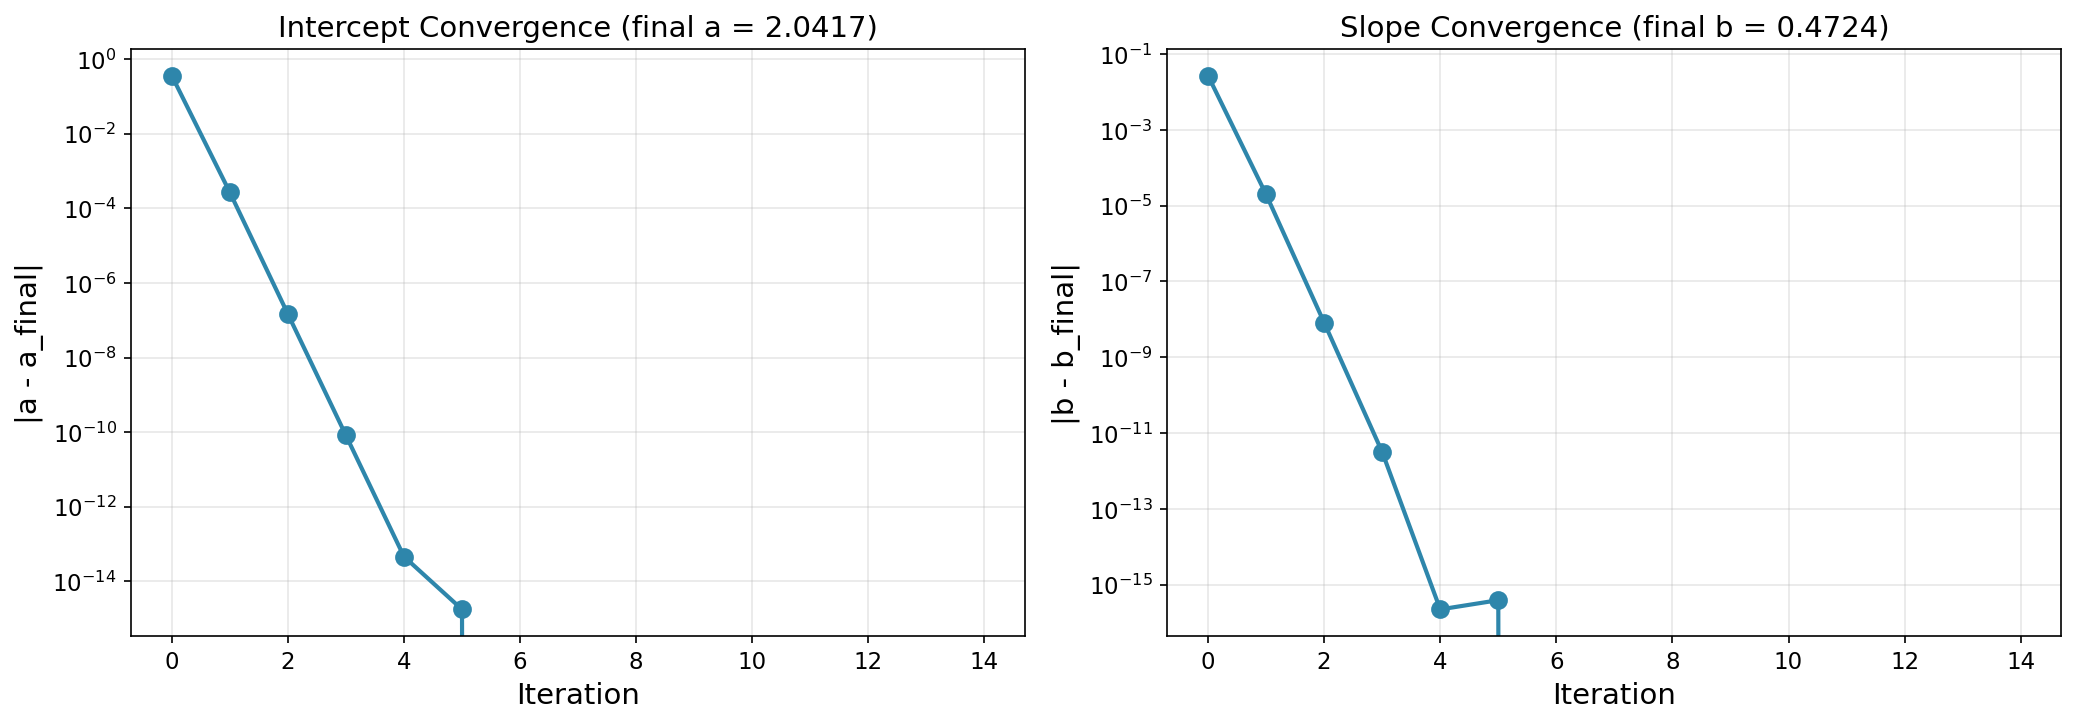
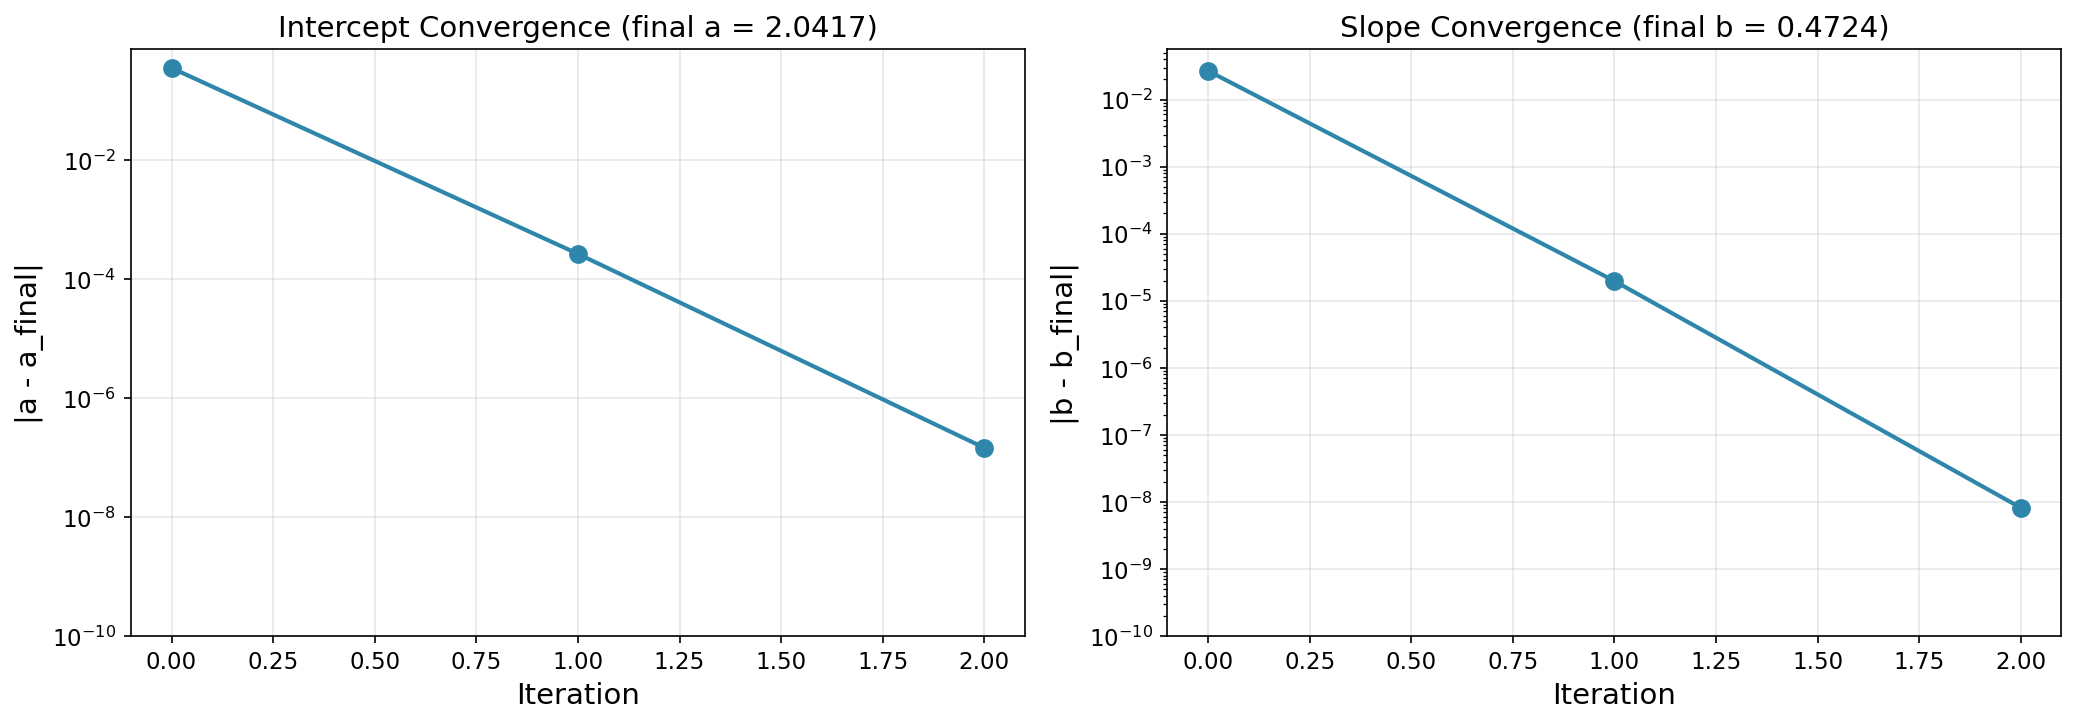
update to plots

diff --git a/demo.py b/demo.py
@@ -650,21 +650,32 @@ def demo_convergence():
     
     ax = axes[0]
     a_diff = np.abs(np.array(a_history) - a_final)
-    # Avoid log(0) by setting final point to a small value
-    a_diff[-1] = 1e-16
-    ax.semilogy(iterations[:-1], a_diff[:-1], 'o-', color='#2E86AB', lw=2, markersize=8)
+    # Find last iteration above 1e-10 threshold
+    a_valid = a_diff[:-1] >= 1e-10
+    if np.any(a_valid):
+        a_cutoff = np.where(a_valid)[0][-1] + 1
+    else:
+        a_cutoff = len(a_diff) - 1
+    ax.semilogy(iterations[:a_cutoff], a_diff[:a_cutoff], 'o-', color='#2E86AB', lw=2, markersize=8)
     ax.set_xlabel('Iteration')
     ax.set_ylabel('|a - a_final|')
     ax.set_title(f'Intercept Convergence (final a = {a_final:.4f})')
+    ax.set_ylim(bottom=1e-10)
     ax.grid(True, alpha=0.3)
     
     ax = axes[1]
     b_diff = np.abs(np.array(b_history) - b_final)
-    b_diff[-1] = 1e-16
-    ax.semilogy(iterations[:-1], b_diff[:-1], 'o-', color='#2E86AB', lw=2, markersize=8)
+    # Find last iteration above 1e-10 threshold
+    b_valid = b_diff[:-1] >= 1e-10
+    if np.any(b_valid):
+        b_cutoff = np.where(b_valid)[0][-1] + 1
+    else:
+        b_cutoff = len(b_diff) - 1
+    ax.semilogy(iterations[:b_cutoff], b_diff[:b_cutoff], 'o-', color='#2E86AB', lw=2, markersize=8)
     ax.set_xlabel('Iteration')
     ax.set_ylabel('|b - b_final|')
     ax.set_title(f'Slope Convergence (final b = {b_final:.4f})')
+    ax.set_ylim(bottom=1e-10)
     ax.grid(True, alpha=0.3)
     
     plt.tight_layout()
